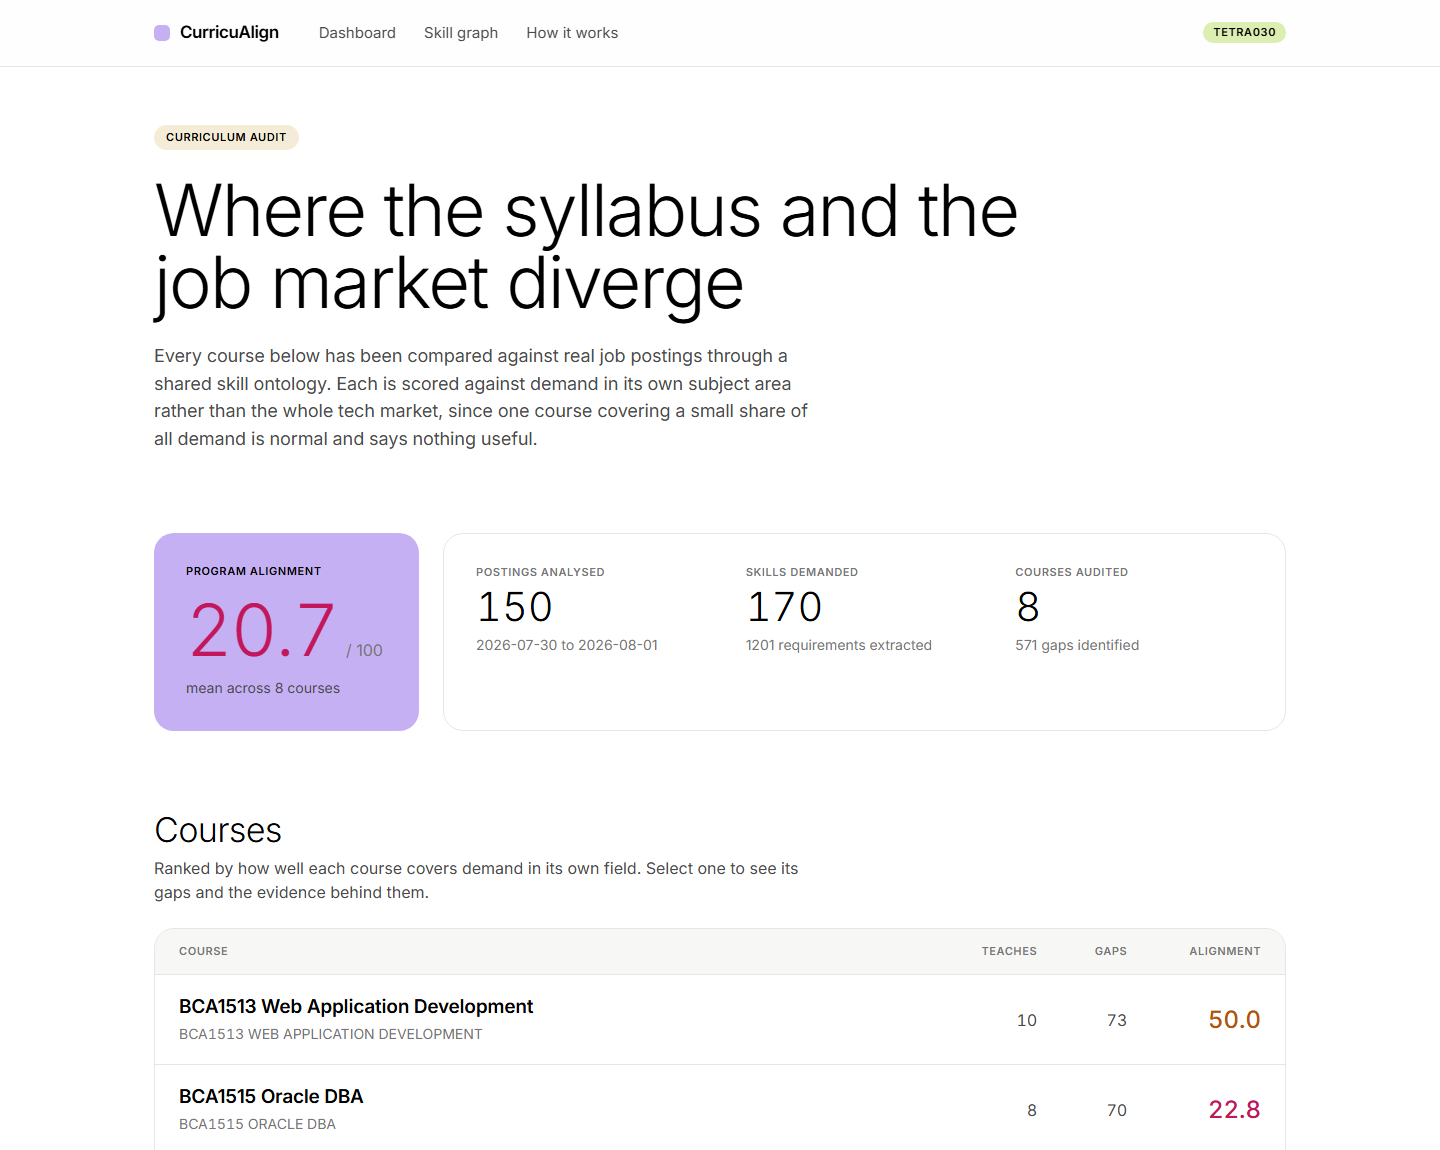
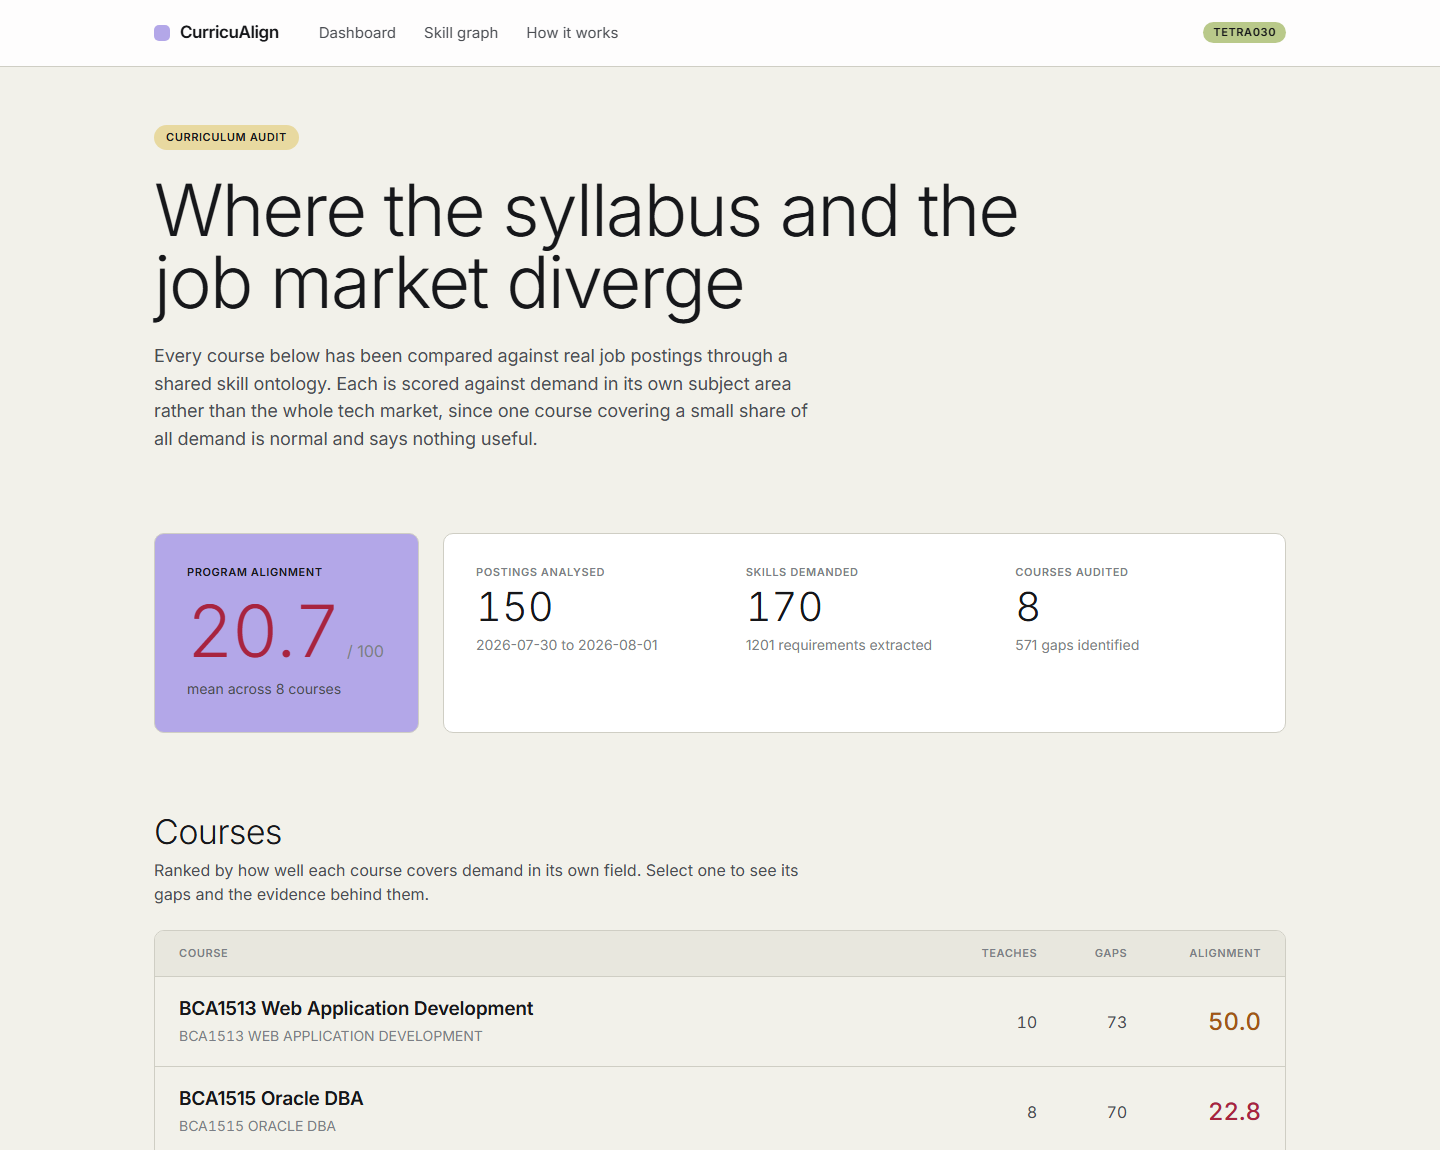
TETRA030: Warm the palette and saturate the category blocks
The previous palette put washed-out pastels on stark white, which left the
page flat: the blocks were too pale to carry meaning and the white gave the
panels nothing to lift off.

Canvas is now a warm bone, panels are white with visible hairline borders,
and the category blocks are saturated rather than tinted: periwinkle for AI,
sky for data, moss for web, sage for cloud, clay for systems, orchid for
security, butter for engineering. Each block is deep enough to hold its own
against the canvas while staying muted enough to sit behind body text.

The mapping stays fixed per category, so a colour means the same thing on a
gap card, a category tag, and a graph node. Colour that shifts between views
is decoration; colour that holds is information.

diff --git a/frontend/lib/theme.ts b/frontend/lib/theme.ts
@@ -7,22 +7,22 @@
  */
 
 export const CATEGORY_BLOCKS: Record<string, { bg: string; dot: string; label: string }> = {
-  ai: { bg: "var(--color-block-lilac)", dot: "#7c5cd6", label: "AI and ML" },
-  data: { bg: "var(--color-block-sky)", dot: "#3d7ab8", label: "Data" },
-  web: { bg: "var(--color-block-lime)", dot: "#6f9435", label: "Web" },
-  cloud: { bg: "var(--color-block-mint)", dot: "#3f8c5c", label: "Cloud" },
-  systems: { bg: "var(--color-block-coral)", dot: "#c26a3d", label: "Systems" },
-  security: { bg: "var(--color-block-pink)", dot: "#b8536a", label: "Security" },
-  engineering: { bg: "var(--color-block-cream)", dot: "#9c7c3a", label: "Engineering" },
-  language: { bg: "var(--color-block-lime)", dot: "#6f9435", label: "Languages" },
-  foundations: { bg: "var(--color-surface-soft)", dot: "#767676", label: "Foundations" },
-  mathematics: { bg: "var(--color-surface-soft)", dot: "#767676", label: "Mathematics" },
-  professional: { bg: "var(--color-surface-soft)", dot: "#8a8a8a", label: "Professional" },
+  ai: { bg: "var(--color-block-periwinkle)", dot: "#5b4bab", label: "AI and ML" },
+  data: { bg: "var(--color-block-sky)", dot: "#2f6690", label: "Data" },
+  web: { bg: "var(--color-block-moss)", dot: "#5c7027", label: "Web" },
+  cloud: { bg: "var(--color-block-sage)", dot: "#2f7d5b", label: "Cloud" },
+  systems: { bg: "var(--color-block-clay)", dot: "#9c542a", label: "Systems" },
+  security: { bg: "var(--color-block-orchid)", dot: "#a02f96", label: "Security" },
+  engineering: { bg: "var(--color-block-butter)", dot: "#8a6d14", label: "Engineering" },
+  language: { bg: "var(--color-block-moss)", dot: "#5c7027", label: "Languages" },
+  foundations: { bg: "var(--color-block-stone)", dot: "#6d6c62", label: "Foundations" },
+  mathematics: { bg: "var(--color-block-stone)", dot: "#6d6c62", label: "Mathematics" },
+  professional: { bg: "var(--color-block-stone)", dot: "#7b7f86", label: "Professional" },
 };
 
 const FALLBACK = {
-  bg: "var(--color-surface-soft)",
-  dot: "#767676",
+  bg: "var(--color-block-stone)",
+  dot: "#7b7f86",
   label: "General",
 };
 
@@ -32,9 +32,9 @@ export function categoryBlock(category: string | undefined) {
 
 /** Rotating block colours for sections that are not category-specific. */
 export const SECTION_BLOCKS = [
-  "var(--color-block-lime)",
-  "var(--color-block-lilac)",
-  "var(--color-block-cream)",
-  "var(--color-block-mint)",
-  "var(--color-block-pink)",
+  "var(--color-block-moss)",
+  "var(--color-block-periwinkle)",
+  "var(--color-block-butter)",
+  "var(--color-block-sage)",
+  "var(--color-block-orchid)",
 ] as const;

diff --git a/frontend/components/skill-graph.tsx b/frontend/components/skill-graph.tsx
@@ -263,7 +263,7 @@ export function SkillGraph({ data }: { data: GraphData }) {
 
   return (
     <div className="grid gap-4 lg:grid-cols-[1fr_300px]">
-      <div className="overflow-hidden rounded-[var(--radius-lg)] border border-[var(--color-hairline)] bg-white">
+      <div className="overflow-hidden rounded-[var(--radius-lg)] border border-[var(--color-hairline)] bg-[var(--color-surface)]">
         <canvas
           ref={canvasRef}
           width={900}
@@ -273,11 +273,11 @@ export function SkillGraph({ data }: { data: GraphData }) {
         />
         <div className="flex flex-wrap items-center gap-4 border-t border-[var(--color-hairline)] px-5 py-3.5 caption text-[var(--color-ink-mute)]">
           <span className="flex items-center gap-1.5">
-            <span className="inline-block h-3 w-3 rounded-full border-2 border-black bg-white" />
+            <span className="inline-block h-3 w-3 rounded-full border-2 border-black bg-[var(--color-surface)]" />
             taught
           </span>
           <span className="flex items-center gap-1.5">
-            <span className="inline-block h-3 w-3 rounded-full" style={{ backgroundColor: "var(--color-block-lilac)" }} />
+            <span className="inline-block h-3 w-3 rounded-full" style={{ backgroundColor: "var(--color-block-periwinkle)" }} />
             gap
           </span>
           <span>node size is market demand</span>
@@ -285,7 +285,7 @@ export function SkillGraph({ data }: { data: GraphData }) {
         </div>
       </div>
 
-      <aside className="rounded-[var(--radius-lg)] border border-[var(--color-hairline)] bg-white p-6">
+      <aside className="rounded-[var(--radius-lg)] border border-[var(--color-hairline)] bg-[var(--color-surface)] p-6">
         {!selected ? (
           <p className="text-[16px] text-[var(--color-ink-mute)]">
             Select a skill to see what a course would need to teach first.
@@ -343,7 +343,7 @@ export function SkillGraph({ data }: { data: GraphData }) {
                 </div>
               </div>
             ) : chain ? (
-              <p className="mt-5 border-t border-[var(--color-hairline)] pt-4 text-xs text-slate-500">
+              <p className="mt-5 border-t border-[var(--color-hairline)] pt-4 caption text-[var(--color-ink-mute)]">
                 No prerequisites recorded. This is a foundational skill.
               </p>
             ) : null}

diff --git a/frontend/app/globals.css b/frontend/app/globals.css
@@ -13,40 +13,41 @@
    and negative display tracking. */
 
 @theme inline {
-  /* Monochrome frame */
-  --color-ink: #000000;
-  --color-ink-soft: #4a4a4a;
-  --color-ink-mute: #767676;
-  --color-canvas: #ffffff;
-  --color-inverse-canvas: #1f1d3d;
-  --color-hairline: #e6e6e6;
-  --color-hairline-soft: #f1f1f1;
-  --color-surface-soft: #f7f7f5;
+  /* Monochrome frame on a warm bone canvas rather than stark white. The
+     warmth is what stops a data-dense page reading as a spreadsheet. */
+  --color-ink: #16171a;
+  --color-ink-soft: #4a4d52;
+  --color-ink-mute: #7b7f86;
+  --color-canvas: #f2f1ea;
+  --color-surface: #ffffff;
+  --color-surface-soft: #e8e7de;
+  --color-hairline: #cfcec4;
+  --color-hairline-strong: #16171a;
 
-  /* Pastel blocks, mapped to skill categories */
-  --color-block-lime: #dceeb1;
-  --color-block-lilac: #c5b0f4;
-  --color-block-cream: #f4ecd6;
-  --color-block-pink: #efd4d4;
-  --color-block-mint: #c8e6cd;
-  --color-block-coral: #f3c9b6;
-  --color-block-navy: #1f1d3d;
-  --color-block-sky: #cfe3f7;
+  /* Saturated blocks, mapped to skill categories. Deeper than pastels so a
+     panel holds its own against the bone canvas. */
+  --color-block-orchid: #e4a8e0;
+  --color-block-sage: #9dbdb0;
+  --color-block-periwinkle: #b3a7e8;
+  --color-block-butter: #e8d9a0;
+  --color-block-clay: #dba98c;
+  --color-block-sky: #a8c4dd;
+  --color-block-moss: #b9c98a;
+  --color-block-stone: #d6d5cb;
 
-  --color-accent: #ff3d8b;
-  --color-success: #1ea64a;
+  --color-accent: #16171a;
+  --color-success: #2f7d5b;
 
-  /* Severity. Deeper than the pastels so a critical gap still reads as
-     urgent against a page full of soft colour. */
-  --color-severity-critical: #c2185b;
-  --color-severity-high: #b45309;
-  --color-severity-moderate: #8a6d1f;
-  --color-severity-low: #767676;
+  /* Severity, deep enough to read as urgent against saturated blocks. */
+  --color-severity-critical: #a8243f;
+  --color-severity-high: #a15616;
+  --color-severity-moderate: #7d6414;
+  --color-severity-low: #7b7f86;
 
-  --radius-xs: 4px;
-  --radius-sm: 8px;
-  --radius-md: 12px;
-  --radius-lg: 20px;
+  --radius-xs: 3px;
+  --radius-sm: 6px;
+  --radius-md: 8px;
+  --radius-lg: 10px;
   --radius-full: 9999px;
 
   --font-sans: var(--font-inter), system-ui, sans-serif;

diff --git a/frontend/components/ui.tsx b/frontend/components/ui.tsx
@@ -19,7 +19,7 @@ export function Card({
   if (block) {
     return (
       <div
-        className={`rounded-[var(--radius-lg)] p-8 ${className}`}
+        className={`rounded-[var(--radius-lg)] border border-[var(--color-hairline)] p-8 ${className}`}
         style={{ backgroundColor: block }}
       >
         {children}
@@ -29,7 +29,7 @@ export function Card({
 
   return (
     <div
-      className={`rounded-[var(--radius-lg)] border border-[var(--color-hairline)] bg-white p-8 ${className}`}
+      className={`rounded-[var(--radius-lg)] border border-[var(--color-hairline)] bg-[var(--color-surface)] p-8 ${className}`}
     >
       {children}
     </div>
@@ -163,7 +163,7 @@ export function Button({
   const variants = {
     primary: "bg-[var(--color-ink)] text-white hover:bg-[var(--color-ink-soft)]",
     secondary:
-      "bg-white text-[var(--color-ink)] border border-[var(--color-ink)] hover:bg-[var(--color-surface-soft)]",
+      "bg-[var(--color-surface)] text-[var(--color-ink)] border border-[var(--color-ink)] hover:bg-[var(--color-surface-soft)]",
     quiet:
       "bg-transparent text-[var(--color-ink-mute)] hover:text-[var(--color-ink)]",
   };
@@ -182,16 +182,16 @@ export function Button({
 
 export function ErrorPanel({ message }: { message: string }) {
   return (
-    <Card block="var(--color-block-pink)">
+    <Card block="var(--color-block-orchid)">
       <p className="card-title text-[var(--color-ink)]">Could not load data</p>
       <p className="mt-3 text-[16px] text-[var(--color-ink-soft)]">{message}</p>
       <p className="caption mt-5 text-[var(--color-ink-soft)]">
         The API may not be running. Start it with{" "}
-        <code className="rounded-[var(--radius-xs)] bg-white/70 px-1.5 py-0.5 font-mono">
+        <code className="rounded-[var(--radius-xs)] bg-[var(--color-surface)]/70 px-1.5 py-0.5 font-mono">
           docker compose up -d
         </code>{" "}
         then seed it with{" "}
-        <code className="rounded-[var(--radius-xs)] bg-white/70 px-1.5 py-0.5 font-mono">
+        <code className="rounded-[var(--radius-xs)] bg-[var(--color-surface)]/70 px-1.5 py-0.5 font-mono">
           docker compose exec backend python -m app.seed
         </code>
       </p>

diff --git a/frontend/app/page.tsx b/frontend/app/page.tsx
@@ -41,7 +41,7 @@ export default async function DashboardPage() {
       <section className="max-w-4xl">
         <span
           className="micro-cap inline-block rounded-[var(--radius-full)] px-3 py-1.5"
-          style={{ backgroundColor: "var(--color-block-cream)" }}
+          style={{ backgroundColor: "var(--color-block-butter)" }}
         >
           Curriculum audit
         </span>
@@ -58,7 +58,7 @@ export default async function DashboardPage() {
       </section>
 
       <section className="grid gap-6 lg:grid-cols-4">
-        <Card block="var(--color-block-lilac)" className="lg:col-span-1">
+        <Card block="var(--color-block-periwinkle)" className="lg:col-span-1">
           <p className="micro-cap text-[var(--color-ink)]">Program alignment</p>
           <div className="mt-4">
             <HealthScore score={programAlignment} />
@@ -162,21 +162,21 @@ export default async function DashboardPage() {
       <section>
         <SectionTitle>Reading the alignment score</SectionTitle>
         <div className="grid gap-5 sm:grid-cols-3">
-          <Card block="var(--color-block-mint)">
+          <Card block="var(--color-block-sage)">
             <p className="tabular display-md">60 to 100</p>
             <p className="mt-3 text-[16px] text-[var(--color-ink-soft)]">
               Strong coverage of its own subject area. Remaining gaps are
               specialised.
             </p>
           </Card>
-          <Card block="var(--color-block-cream)">
+          <Card block="var(--color-block-butter)">
             <p className="tabular display-md">30 to 60</p>
             <p className="mt-3 text-[16px] text-[var(--color-ink-soft)]">
               Meaningful drift. Several in-demand skills in this field are
               uncovered but reachable.
             </p>
           </Card>
-          <Card block="var(--color-block-pink)">
+          <Card block="var(--color-block-orchid)">
             <p className="tabular display-md">Below 30</p>
             <p className="mt-3 text-[16px] text-[var(--color-ink-soft)]">
               Substantial misalignment. Skills core to this subject area are

diff --git a/frontend/app/layout.tsx b/frontend/app/layout.tsx
@@ -29,13 +29,13 @@ export default function RootLayout({
   return (
     <html lang="en">
       <body className={`${inter.variable} min-h-screen antialiased`}>
-        <header className="sticky top-0 z-20 border-b border-[var(--color-hairline)] bg-white/90 backdrop-blur">
+        <header className="sticky top-0 z-20 border-b border-[var(--color-hairline)] bg-[var(--color-surface)]/90 backdrop-blur">
           <div className="mx-auto flex max-w-[1180px] flex-wrap items-center gap-x-10 gap-y-3 px-6 py-5">
             <Link href="/" className="flex items-center gap-2.5">
               <span
                 aria-hidden
                 className="inline-block h-4 w-4 rounded-[5px]"
-                style={{ backgroundColor: "var(--color-block-lilac)" }}
+                style={{ backgroundColor: "var(--color-block-periwinkle)" }}
               />
               <span className="text-[17px] font-semibold tracking-tight">
                 CurricuAlign
@@ -56,7 +56,7 @@ export default function RootLayout({
 
             <span
               className="micro-cap ml-auto hidden rounded-[var(--radius-full)] px-2.5 py-1 sm:inline-block"
-              style={{ backgroundColor: "var(--color-block-lime)" }}
+              style={{ backgroundColor: "var(--color-block-moss)" }}
             >
               TETRA030
             </span>

diff --git a/frontend/components/gap-list.tsx b/frontend/components/gap-list.tsx
@@ -43,7 +43,7 @@ export function GapList({ gaps }: { gaps: SkillGap[] }) {
     return (
       <div
         className="rounded-[var(--radius-lg)] p-8 text-[16px]"
-        style={{ backgroundColor: "var(--color-block-mint)" }}
+        style={{ backgroundColor: "var(--color-block-sage)" }}
       >
         No gaps found. This curriculum covers the analysed market demand.
       </div>
@@ -63,7 +63,7 @@ export function GapList({ gaps }: { gaps: SkillGap[] }) {
           return (
             <article
               key={gap.canonical_skill}
-              className="flex flex-col overflow-hidden rounded-[var(--radius-lg)] border border-[var(--color-hairline)] bg-white transition-colors hover:border-[var(--color-ink)]"
+              className="flex flex-col overflow-hidden rounded-[var(--radius-lg)] border border-[var(--color-hairline)] bg-[var(--color-surface)] transition-colors hover:border-[var(--color-ink)]"
             >
               {/* The demand figure is the reason a gap matters, so it is the
                   largest thing on the card and sits in its category colour. */}

diff --git a/frontend/app/about/page.tsx b/frontend/app/about/page.tsx
@@ -71,7 +71,7 @@ export default function AboutPage() {
         </ol>
       </Card>
 
-      <Card block="var(--color-block-lilac)">
+      <Card block="var(--color-block-periwinkle)">
         <SectionTitle>What makes this different</SectionTitle>
         <p className="text-[16px] leading-relaxed text-[var(--color-ink-soft)]">
           Most curriculum tools compare word lists and report what is missing.
@@ -87,7 +87,7 @@ export default function AboutPage() {
         </p>
       </Card>
 
-      <Card block="var(--color-block-pink)">
+      <Card block="var(--color-block-orchid)">
         <SectionTitle>Honest limitations</SectionTitle>
         <ul className="space-y-2.5 text-[16px] leading-relaxed text-[var(--color-ink-soft)]">
           <li>
@@ -114,7 +114,7 @@ export default function AboutPage() {
         </ul>
       </Card>
 
-      <Card block="var(--color-block-cream)">
+      <Card block="var(--color-block-butter)">
         <SectionTitle>Stack</SectionTitle>
         <dl className="grid gap-3 text-sm sm:grid-cols-2">
           {[

diff --git a/frontend/components/augment-panel.tsx b/frontend/components/augment-panel.tsx
@@ -104,7 +104,7 @@ export function AugmentPanel({ courseCode }: { courseCode: string }) {
               return (
                 <div
                   key={section.key}
-                  className="rounded-[var(--radius-lg)] border border-[var(--color-hairline)] bg-white p-6"
+                  className="rounded-[var(--radius-lg)] border border-[var(--color-hairline)] bg-[var(--color-surface)] p-6"
                 >
                   <h3 className="heading-sm text-[var(--color-ink)]">
                     {section.title}

diff --git a/frontend/app/graph/page.tsx b/frontend/app/graph/page.tsx
@@ -60,7 +60,7 @@ export default async function GraphPage() {
           ))}
       </div>
 
-      <Card className="bg-slate-900/20">
+      <Card block="var(--color-block-sky)">
         <SectionTitle>Why this is a graph, not a table</SectionTitle>
         <p className="text-[15px] leading-relaxed text-[var(--color-ink-secondary)]">
           The edges are what make the analysis actionable. Knowing a curriculum
